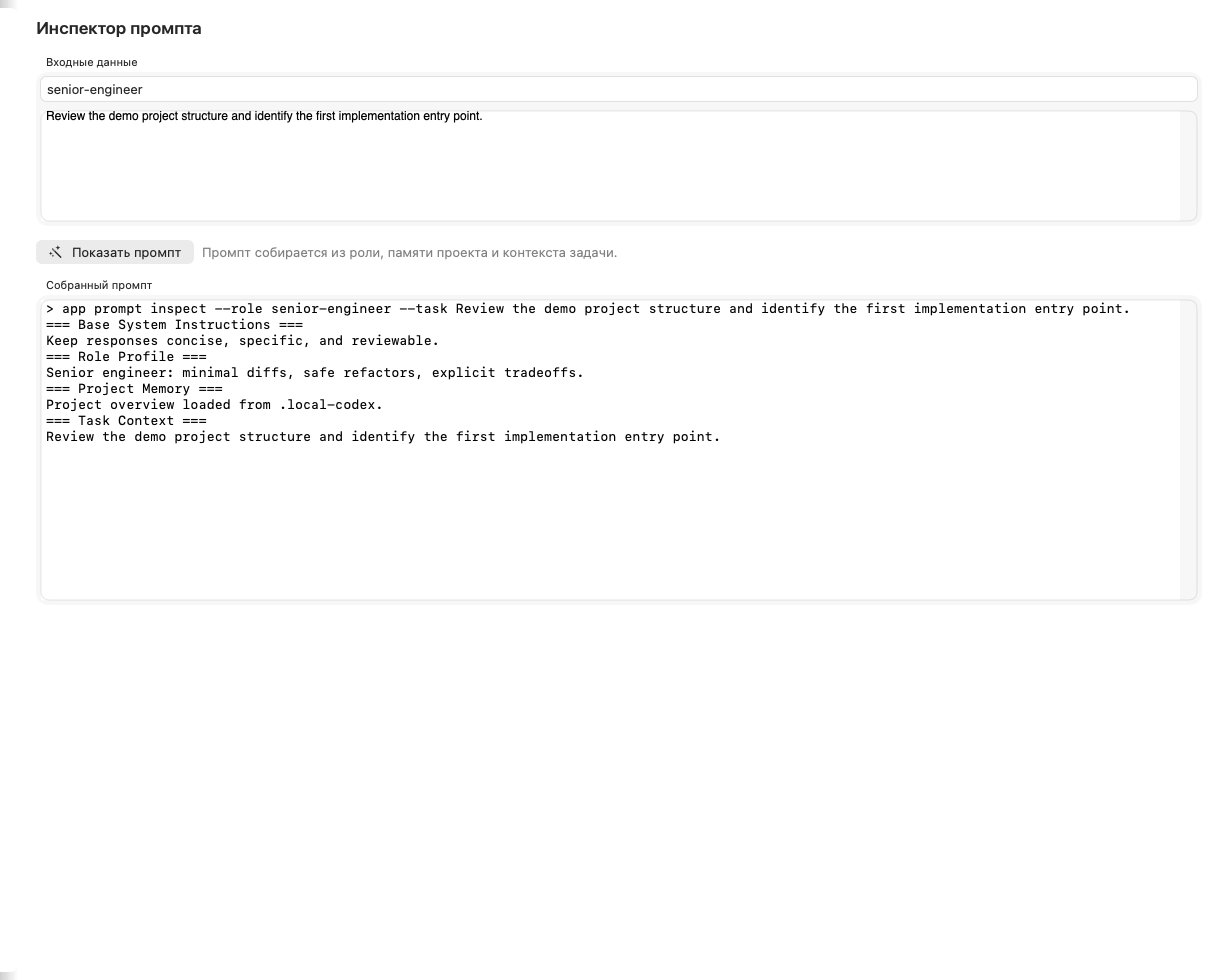
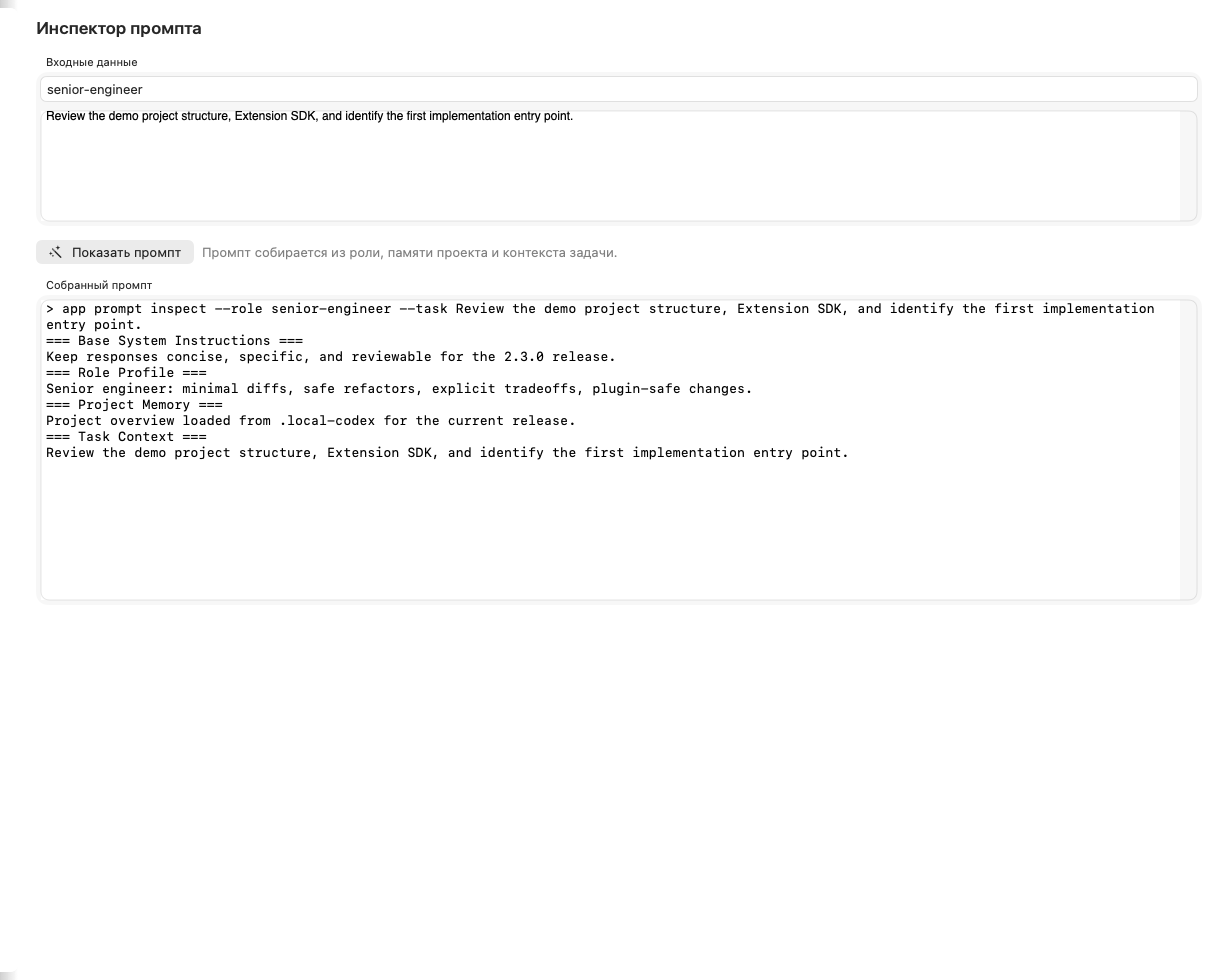
Refresh all README screenshots

Changed region(s): [[0.0311, 0.3061, 0.6852, 0.4898], [0.5918, 0.3061, 0.9344, 0.3367], [0.1869, 0.0918, 0.4672, 0.1224]]

diff --git a/macos/LocalCodexMac/Tests/LocalCodexMacTests/ReadmeScreenshotTests.swift b/macos/LocalCodexMac/Tests/LocalCodexMacTests/ReadmeScreenshotTests.swift
@@ -13,16 +13,16 @@ private actor ScreenshotMockRunner: CLICommandRunning {
         if arguments.first == "prompt", arguments.dropFirst().first == "inspect" {
             stdout = """
             === Base System Instructions ===
-            Keep responses concise, specific, and reviewable.
+            Keep responses concise, specific, and reviewable for the 2.3.0 release.
 
             === Role Profile ===
-            Senior engineer: minimal diffs, safe refactors, explicit tradeoffs.
+            Senior engineer: minimal diffs, safe refactors, explicit tradeoffs, plugin-safe changes.
 
             === Project Memory ===
-            Project overview loaded from .local-codex.
+            Project overview loaded from .local-codex for the current release.
 
             === Task Context ===
-            Review the demo project structure and identify the first implementation entry point.
+            Review the demo project structure, Extension SDK, and identify the first implementation entry point.
             """
         } else {
             stdout = ""
@@ -69,7 +69,7 @@ final class ReadmeScreenshotTests: XCTestCase {
         store.selectedSection = .project
         store.selectedTaskId = store.snapshot?.state?.currentTaskId
         store.selectedRoleName = store.snapshot?.state?.activeRole
-        store.selectedRegistryId = store.snapshot?.registryCatalog?.entries?.first?.id
+        store.selectedRegistryId = "workbench.mcp.connector.demo"
         store.selectedExtensionId = store.snapshot?.extensions?.extensions?.first?.id
 
         try renderScreenshot(
@@ -82,6 +82,8 @@ final class ReadmeScreenshotTests: XCTestCase {
         )
 
         store.selectedSection = .tasks
+        store.taskTitle = "Release history cleanup"
+        store.taskRequest = "Review the 2.3.0 release history and screenshot coverage."
         try renderScreenshot(
             ContentView()
                 .environmentObject(store)
@@ -123,7 +125,7 @@ final class ReadmeScreenshotTests: XCTestCase {
 
         store.selectedSection = .prompt
         store.promptRoleOverride = "senior-engineer"
-        store.promptInstruction = "Review the demo project structure and identify the first implementation entry point."
+        store.promptInstruction = "Review the demo project structure, Extension SDK, and identify the first implementation entry point."
         store.console = []
         store.sessionOutputText = ""
         await store.inspectPrompt()
@@ -157,16 +159,16 @@ final class ReadmeScreenshotTests: XCTestCase {
         )
 
         store.selectedSection = .session
-        store.sessionInput = "Audit the landing state and summarize next actions."
+        store.sessionInput = "Audit the 2.3.0 release state and summarize next actions."
         store.sessionIsRunning = true
-        store.sessionProcessStatus = "Mock session active"
+        store.sessionProcessStatus = "Mock session active for 2.3.0"
         store.sessionOutputText = """
         > app prompt inspect
         === Base System Instructions ===
-        Keep responses concise, specific, and reviewable.
+        Keep responses concise, specific, and reviewable for the 2.3.0 release.
 
         === Task Context ===
-        Review the demo project structure and identify the first implementation entry point.
+        Review the demo project structure, Extension SDK, and identify the first implementation entry point.
         """
         try renderScreenshot(
             ContentView()
@@ -257,26 +259,26 @@ final class ReadmeScreenshotTests: XCTestCase {
         try FileManager.default.createDirectory(at: rolesRoot, withIntermediateDirectories: true)
 
         let roleData: [(String, String)] = [
-            ("senior-engineer", "Practical engineering role."),
-            ("software-architect", "Designs boundaries and migration paths."),
-            ("code-reviewer", "Focuses on correctness and risk."),
-            ("debugging-expert", "Narrows issues with evidence."),
-            ("designer", "Improves UX clarity and hierarchy."),
-            ("product-manager", "Slices work into outcomes."),
-            ("frontend-engineer", "Builds polished UI surfaces."),
-            ("backend-engineer", "Owns server-side logic and data flow."),
-            ("test-engineer", "Creates strong validation coverage."),
-            ("performance-optimizer", "Finds bottlenecks and reduces overhead."),
-            ("refactoring-strategist", "Improves structure without changing behavior."),
-            ("release-engineer", "Prepares stable shipping builds."),
-            ("api-designer", "Shapes API contracts and payloads."),
+            ("senior-engineer", "Keeps the 2.3.0 release flow reviewable and current."),
+            ("software-architect", "Designs boundaries for the Extension SDK and provider registry."),
+            ("code-reviewer", "Focuses on release risk, regressions, and patch safety."),
+            ("debugging-expert", "Narrows issues with evidence from the latest release."),
+            ("designer", "Improves UI clarity across dashboard and desktop screenshots."),
+            ("product-manager", "Slices roadmap work into shippable release steps."),
+            ("frontend-engineer", "Builds polished UI surfaces for the browser dashboard."),
+            ("backend-engineer", "Owns server-side logic, hooks, and data flow."),
+            ("test-engineer", "Creates strong validation coverage for new release flows."),
+            ("performance-optimizer", "Finds bottlenecks in indexing and analytics refreshes."),
+            ("refactoring-strategist", "Improves structure without changing release behavior."),
+            ("release-engineer", "Prepares stable shipping builds and DMG artifacts."),
+            ("api-designer", "Shapes API contracts for CLI, server, and plugin surfaces."),
             ("migration-engineer", "Moves data and code safely across versions."),
             ("qa-analyst", "Checks behavior against acceptance criteria."),
             ("bug-hunter", "Tracks failures to root cause."),
-            ("devops-engineer", "Helps with delivery and infrastructure."),
+            ("devops-engineer", "Helps with delivery, packaging, and release automation."),
             ("security-reviewer", "Looks for security and trust gaps."),
             ("documentation-engineer", "Keeps public docs crisp and current."),
-            ("integration-engineer", "Connects components without surprises.")
+            ("integration-engineer", "Connects core modules without surprises.")
         ]
 
         for (name, description) in roleData {
@@ -313,25 +315,25 @@ final class ReadmeScreenshotTests: XCTestCase {
           "schemaVersion": 1,
           "createdAt": "2026-04-13T00:00:00.000Z",
           "updatedAt": "2026-04-13T00:00:00.000Z",
-          "currentTaskId": "task-frontend",
+          "currentTaskId": "task-release",
           "tasks": [
             {
               "id": "task-frontend",
-              "title": "Landing polish",
+              "title": "Extension SDK release polish",
               "slug": "landing-polish",
               "status": "in_progress",
               "createdAt": "2026-04-13T00:00:00.000Z",
               "updatedAt": "2026-04-13T00:00:00.000Z",
               "role": "senior-engineer",
               "model": "qwen2.5-coder:14b",
-              "summary": "Refine the landing state and composer flow.",
-              "userRequest": "Polish the project landing experience.",
+              "summary": "Refine the landing state and composer flow for the 2.3.0 release.",
+              "userRequest": "Polish the project landing experience for the current release.",
               "relevantFiles": ["macos/LocalCodexMac/Sources/LocalCodexMac/Sections.swift"],
               "lastRunNotes": [
                 {
                   "kind": "finding",
                   "source": "assistant",
-                  "text": "Composer should autofocus after project load.",
+                  "text": "Composer should autofocus after project load in the 2.3.0 flow.",
                   "createdAt": "2026-04-13T00:00:00.000Z"
                 }
               ],
@@ -340,32 +342,32 @@ final class ReadmeScreenshotTests: XCTestCase {
             },
             {
               "id": "task-backend",
-              "title": "API contract audit",
+              "title": "Provider and hook audit",
               "slug": "api-contract-audit",
               "status": "planned",
               "createdAt": "2026-04-13T00:00:00.000Z",
               "updatedAt": "2026-04-13T00:00:00.000Z",
               "role": "backend-engineer",
               "model": "qwen2.5-coder:14b",
-              "summary": "Check payloads, boundaries, and error states.",
-              "userRequest": "Audit the API contract for edge cases.",
-              "relevantFiles": ["src/api.ts", "src/server.ts"],
+              "summary": "Check payloads, boundaries, and error states across provider and hook flows.",
+              "userRequest": "Audit the provider and hook contracts for edge cases.",
+              "relevantFiles": ["src/providers/index.js", "src/hooks.js", "src/server.js"],
               "lastRunNotes": [],
               "location": "active",
               "folder": "active/task-backend"
             },
             {
               "id": "task-release",
-              "title": "Prepare release notes",
+              "title": "Prepare 2.3.0 release notes",
               "slug": "prepare-release-notes",
               "status": "draft",
               "createdAt": "2026-04-13T00:00:00.000Z",
               "updatedAt": "2026-04-13T00:00:00.000Z",
               "role": "product-manager",
               "model": "qwen2.5-coder:14b",
-              "summary": "Write concise release notes and screenshots.",
-              "userRequest": "Prepare public release notes and visuals.",
-              "relevantFiles": ["CHANGELOG.md", "README.md"],
+              "summary": "Write concise release notes, screenshots, and release history.",
+              "userRequest": "Prepare public release notes and visuals for 2.3.0.",
+              "relevantFiles": ["CHANGELOG.md", "README.md", "docs/release-notes-2.3.0.md"],
               "lastRunNotes": [],
               "location": "active",
               "folder": "active/task-release"
@@ -384,13 +386,13 @@ final class ReadmeScreenshotTests: XCTestCase {
           "allowedReadGlobs": ["src/**", "tests/**", "README.md", ".local-codex/**"],
           "allowedWriteGlobs": ["src/**", "tests/**", "README.md", ".local-codex/**"],
           "blockedPaths": ["node_modules/**", ".git/**"],
-          "allowedCommands": ["git status", "npm test", "swift test"],
+          "allowedCommands": ["git status", "npm test", "swift test", "app extensions list"],
           "blockedCommands": ["rm -rf /", "curl | sh"],
           "requireApprovalFor": {
             "commands": ["npm install", "git push"],
             "categories": ["network", "destructive"]
           },
-          "maxCommandOutputChars": 12000
+          "maxCommandOutputChars": 16000
         }
         """
         let url = root.appendingPathComponent(".local-codex/policy.json")
@@ -413,7 +415,7 @@ final class ReadmeScreenshotTests: XCTestCase {
           "approvalMode": "on-request",
           "approvalStatus": "pending",
           "validationStatus": "pending",
-          "summary": "Improve landing copy and align composer spacing.",
+          "summary": "Align release copy and confirm plugin-safe patch spacing.",
           "affectedFiles": [
             {
               "path": "macos/LocalCodexMac/Sources/LocalCodexMac/Sections.swift",
@@ -438,9 +440,9 @@ final class ReadmeScreenshotTests: XCTestCase {
             {
               "path": "macos/LocalCodexMac/Sources/LocalCodexMac/Sections.swift",
               "action": "update",
-              "beforeContent": "Text(\\"Old copy\\")",
-              "afterContent": "Text(\\"New copy\\")",
-              "diffText": "--- a/Sections.swift\\n+++ b/Sections.swift\\n@@\\n- Text(\\"Old copy\\")\\n+ Text(\\"New copy\\")"
+              "beforeContent": "Text(\\"Old release copy\\")",
+              "afterContent": "Text(\\"Workbench 2.3.0\\")",
+              "diffText": "--- a/Sections.swift\\n+++ b/Sections.swift\\n@@\\n- Text(\\"Old release copy\\")\\n+ Text(\\"Workbench 2.3.0\\")"
             }
           ],
           "diffPath": ".local-codex/patches/patch-demo-1/diff.txt",
@@ -463,10 +465,10 @@ final class ReadmeScreenshotTests: XCTestCase {
             {
               "id": "workbench.core-prompt-pack",
               "name": "Workbench Core Prompt Pack",
-              "version": "1.0.0",
+              "version": "2.3.0",
               "type": "skill",
               "author": "Workbench",
-              "description": "Core prompt instructions for local development workflows.",
+              "description": "Core prompt instructions for the 2.3.0 release workflow.",
               "source": {
                 "kind": "github",
                 "owner": "Hafiz0ff",
@@ -488,7 +490,7 @@ final class ReadmeScreenshotTests: XCTestCase {
               "publisher": "Workbench",
               "reviewStatus": "reviewed",
               "verifiedSource": true,
-              "supportedAppVersions": [">=1.0.0"],
+              "supportedAppVersions": [">=2.3.0"],
               "signature": "demo-signature",
               "lastCheckedAt": "2026-04-13T00:00:00.000Z",
               "trustLevel": "reviewed",
@@ -578,10 +580,10 @@ final class ReadmeScreenshotTests: XCTestCase {
             {
               "id": "workbench.role-pack.ui",
               "name": "Workbench UI Role Pack",
-              "version": "0.9.0",
+              "version": "2.3.0",
               "type": "role-pack",
               "author": "Workbench",
-              "description": "Useful design and UI thinking roles for interface work.",
+              "description": "Useful design and UI thinking roles for interface work in the current release.",
               "source": {
                 "kind": "github",
                 "owner": "Hafiz0ff",
@@ -599,7 +601,7 @@ final class ReadmeScreenshotTests: XCTestCase {
               "publisher": "Workbench",
               "reviewStatus": "reviewed",
               "verifiedSource": true,
-              "supportedAppVersions": [">=1.0.0"],
+              "supportedAppVersions": [">=2.3.0"],
               "signature": "demo-signature",
               "trustLevel": "reviewed",
               "recommended": false,
@@ -615,10 +617,10 @@ final class ReadmeScreenshotTests: XCTestCase {
             {
               "id": "workbench.mcp.connector.demo",
               "name": "Demo MCP Connector Descriptor",
-              "version": "0.1.0",
+              "version": "2.3.0",
               "type": "mcp-connector",
               "author": "Workbench",
-              "description": "Descriptor only; no executable behavior in this stage.",
+              "description": "Descriptor only; aligned with the 2.3.0 plugin system screenshots.",
               "source": {
                 "kind": "github",
                 "owner": "Hafiz0ff",
@@ -636,7 +638,7 @@ final class ReadmeScreenshotTests: XCTestCase {
               "publisher": "Workbench",
               "reviewStatus": "experimental",
               "verifiedSource": false,
-              "supportedAppVersions": [">=1.0.0"],
+              "supportedAppVersions": [">=2.3.0"],
               "signature": null,
               "trustLevel": "experimental",
               "recommended": false,
@@ -655,7 +657,7 @@ final class ReadmeScreenshotTests: XCTestCase {
               "id": "registry-note-1",
               "sourceId": "workbench-curated",
               "severity": "info",
-              "message": "Demo registry is read-only and intended for screenshots."
+              "message": "Demo registry is read-only and intended for the 2.3.0 screenshots."
             }
           ]
         }
